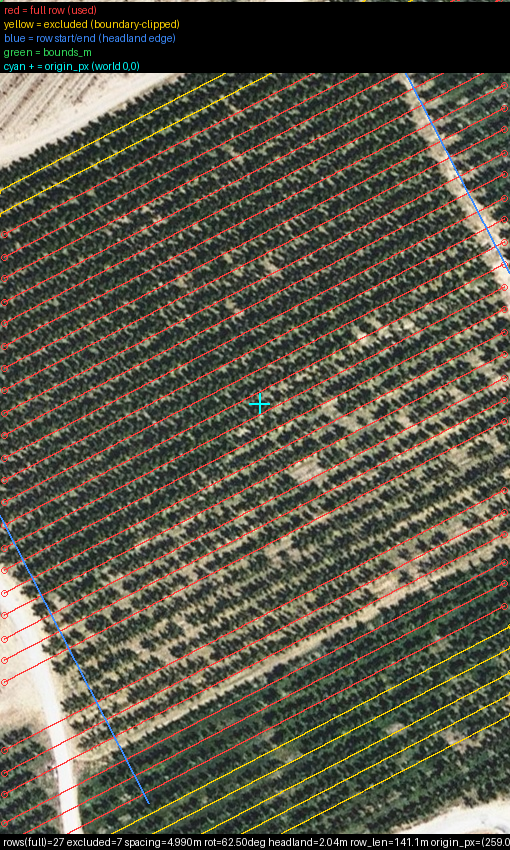
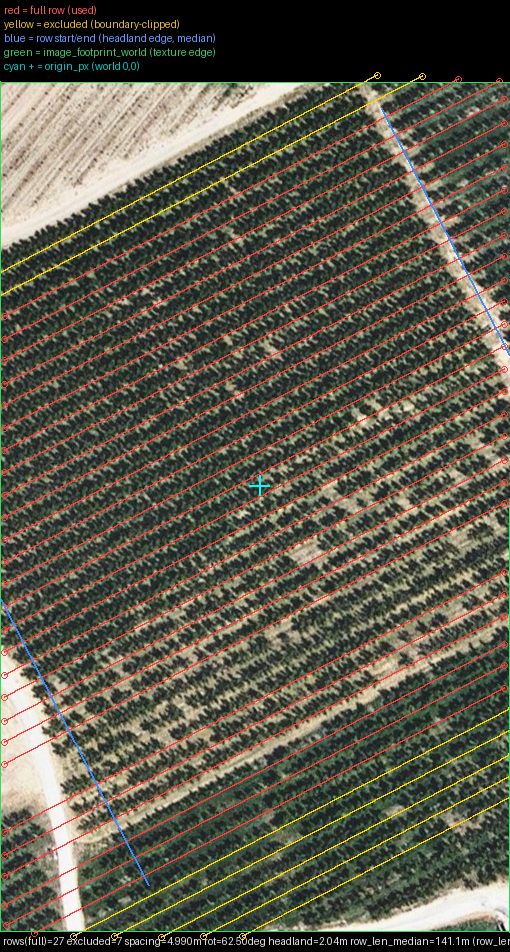
리뷰 수정 1 — footprint 필드·열별 길이·해시 실패·오버레이 여백

diff --git a/scripts/51_extract_farm_geometry.py b/scripts/51_extract_farm_geometry.py
@@ -415,14 +415,21 @@ def build_farm_manifest(geo, image_name, px_per_m, image_sha256, headland_m,
     row_lengths_m = [(r["t_end"] - r["t_start"]) / px_per_m for r in full_rows]
     row_length_m = float(np.median(row_lengths_m))
 
-    # bounds_m = 이미지 전체(0,0)~(image_w,image_h) 픽셀 사각형을 이 아핀으로
-    # 월드좌표에 투영한 바운딩 박스 — 컨트롤러 지시: 열 캐노피+headland_m 만의
-    # 타이트한 박스가 아니라, 이미지에 담긴 나지 여백·농로까지 포함해 T3/T4 가
-    # 미션 스탠드포인트·선회 패드를 놓을 여지를 준다(§bounds_note).
+    # image_footprint_world = 이미지 4모서리(0,0)/(w,0)/(w,h)/(0,h) 를 이
+    # 아핀으로 월드좌표에 투영한 값, 시계방향(픽셀 공간 순서 그대로 —
+    # R(rotation_deg) 는 순수 회전이라 방향성이 보존됨) — "텍스처가 실존하는
+    # 영역"의 정의 그 자체(리뷰 C1). bounds_m(아래, world-axis-aligned AABB)
+    # 은 이 다각형을 감싸는 사각형일 뿐 텍스처 자체가 아니다 — 62.5° 회전
+    # 때문에 AABB 모서리 4개 중 상당수는 실제 이미지 밖(텍스처 없음)에
+    # 놓인다. 오버레이는 반드시 footprint(이 필드)를 그려야 이미지 테두리와
+    # 정확히 겹치는 진짜 시각 검증이 된다 — bounds_m 을 그리면 캔버스 밖으로
+    # 나가 아무것도 안 보인다(1차 구현 결함, §리포트 수정 라운드 1 C1).
     corners_px = [(0.0, 0.0), (float(image_w), 0.0),
                   (float(image_w), float(image_h)), (0.0, float(image_h))]
     corners_world = [to_world(proj_s(cx, cy, theta_rad), proj_t(cx, cy, theta_rad))
                       for cx, cy in corners_px]
+    image_footprint_world = [[round(x, 4), round(y, 4)] for x, y in corners_world]
+
     xs_full = [c[0] for c in corners_world]
     ys_full = [c[1] for c in corners_world]
     min_x, max_x = min(xs_full), max(xs_full)
@@ -436,10 +443,12 @@ def build_farm_manifest(geo, image_name, px_per_m, image_sha256, headland_m,
         "rows": len(full_rows),
         "row_spacing_m": round(geo["spacing_m"], 4),
         "row_length_m": round(row_length_m, 3),
+        "row_lengths_m": [round(v, 3) for v in row_lengths_m],
         "tree_spacing_m": tree_spacing_m,
         "row_origins": [[round(x, 4), round(y, 4)] for x, y in row_origins],
         "headland_m": headland_m,
         "bounds_m": [[round(min_x, 3), round(min_y, 3)], [round(max_x, 3), round(max_y, 3)]],
+        "image_footprint_world": image_footprint_world,
         "terrain": "flat",
         "image_sha256": image_sha256,
         "axes_note": (
@@ -454,22 +463,33 @@ def build_farm_manifest(geo, image_name, px_per_m, image_sha256, headland_m,
             "t(along-row) 값이 더 작은 끝점(이미지 위쪽에 가까운 끝, 즉 이 "
             "규약상 world y 가 더 작은 끝)이며, 열은 거기서 +y 로 "
             "row_length_m 만큼 뻗는다. T3/T6 는 이 부호를 그대로 따라야 "
-            "하며, 진짜 지리적 북이 필요하면 별도로 wy 를 뒤집어야 한다."
+            "하며, 진짜 지리적 북이 필요하면 별도로 wy 를 뒤집어야 한다. "
+            "나무 배치는 row_length_m(대표 중앙값) 대신 row_lengths_m "
+            "배열(열별 실측값, row_origins 와 같은 순서)을 우선 사용하라 — "
+            "열마다 실제 길이가 다르다(경계 형상이 사각형이 아니라 열마다 "
+            "이미지 프레임과 만나는 지점이 다름, 최대 12.9m 차이 실측)."
         ),
         "bounds_note": (
-            "bounds_m 은 (row_origins/headland_m 기반의 타이트한 열 경계가 "
-            "아니라) orchard_ortho.jpg 이미지 전체 픽셀 사각형 "
-            "(0,0)~(image_w,image_h) 을 이 아핀으로 월드좌표에 투영한 "
-            "바운딩 박스다 — 이미지에는 열 캐노피 바깥으로 나지 여백·농로·"
-            "인접 휴경지가 더 담겨 있다(geometry_overlay.png 참고). T3/T4 가 "
-            "미션 스탠드포인트·선회 패드를 그 여백에 배치할 수 있도록 "
-            "일부러 넉넉하게 잡았다. **headland_m 과 혼동하지 말 것**: "
-            "headland_m 은 그와 전혀 다른, 훨씬 좁은 개념이다 — '온전한 "
-            "열'에서 실측한 '실제 캐노피 가장자리'와 '그 열이 이미지 "
-            "프레임과 만나는 지점' 사이 거리일 뿐(row_selection_note "
-            "참고), bounds_m 가장자리까지의 여유를 뜻하지 않는다. 열 자체의 "
-            "타이트한 경계가 필요하면 row_origins ± row_length_m(+y 방향) "
-            "± row_spacing_m/2(x 방향)로 별도 계산하라."
+            "bounds_m 은 world 좌표축에 정렬된 AABB(axis-aligned bounding "
+            "box)로, image_footprint_world(위 필드 — 이미지 4모서리를 실제로 "
+            "투영한 다각형, 텍스처가 존재하는 영역 그 자체) 를 완전히 "
+            "포함하지만 **AABB ⊃ image_footprint_world 이지 둘이 같지"
+            "않다** — rotation_deg=62.5° 때문에 회전된 사각형(footprint)의 "
+            "축정렬 바운딩박스는 그 사각형보다 크고, AABB 의 네 모서리 중 "
+            "상당수는 실제 텍스처 밖(이미지가 없는 영역)에 놓인다. bounds_m "
+            "자체는 orchard_ortho.jpg 이미지 전체 픽셀 사각형(0,0)~"
+            "(image_w,image_h) 의 월드 AABB 이므로, 이미지에 담긴 나지 "
+            "여백·농로까지 포함하는 '텍스처 범위의 상한'으로 쓰라 — T3/T4 가 "
+            "미션 스탠드포인트·선회 패드를 놓을 여지를 이 안에서 찾되, "
+            "AABB 모서리 근방(텍스처 밖일 수 있음)은 image_footprint_world "
+            "다각형 안쪽인지 반드시 별도로 확인해야 한다. **headland_m 과도 "
+            "혼동하지 말 것**: headland_m 은 이들과 전혀 다른, 훨씬 좁은 "
+            "개념이다 — '온전한 열'에서 실측한 '실제 캐노피 가장자리'와 "
+            "'그 열이 이미지 프레임과 만나는 지점' 사이 거리일 뿐"
+            "(row_selection_note 참고), bounds_m/footprint 가장자리까지의 "
+            "여유를 뜻하지 않는다. 열 자체의 타이트한 경계가 필요하면 "
+            "row_origins ± row_lengths_m(+y 방향, 열별 값) ± "
+            "row_spacing_m/2(x 방향)로 별도 계산하라."
         ),
         "row_selection_note": (
             "rows/row_origins 는 '온전한 열'만 포함한다 — 기준(순수 기하, "
@@ -493,10 +513,44 @@ def build_farm_manifest(geo, image_name, px_per_m, image_sha256, headland_m,
 
 
 def render_overlay(arr_rgb, geo, manifest, out_path):
+    """오버레이 — 이미지 자체는 원본 그대로 두고, 범례/캡션은 이미지 밖에
+    새로 붙인 여백에 그린다(리뷰 I4 — 검은 띠로 이미지를 덮으면 열 0~4
+    시작점 같은 실제 콘텐츠가 가려짐). 경계 표시는 bounds_m(AABB, 캔버스
+    밖으로 크게 나감)이 아니라 image_footprint_world(이미지 4모서리 자체)를
+    그린다 — 정의상 이미지 테두리와 정확히 겹쳐야 진짜 시각 검증이 된다
+    (리뷰 C1)."""
     h, w = arr_rgb.shape[:2]
     theta_rad = math.radians(geo["theta_deg"])
-    im = Image.fromarray(arr_rgb.astype(np.uint8), mode="RGB").convert("RGB")
-    draw = ImageDraw.Draw(im)
+    orig = Image.fromarray(arr_rgb.astype(np.uint8), mode="RGB").convert("RGB")
+
+    n_full = len(geo["full_rows"])
+    n_excl = len(geo["row_records"]) - n_full
+    legend = [
+        ("red = full row (used)", (255, 90, 90)),
+        ("yellow = excluded (boundary-clipped)", (230, 190, 40)),
+        ("blue = row start/end (headland edge, median)", (100, 160, 255)),
+        ("green = image_footprint_world (texture edge)", (60, 200, 110)),
+        ("cyan + = origin_px (world 0,0)", (0, 200, 200)),
+    ]
+    line_h = 14
+    top_margin = 6 + line_h * len(legend) + 6
+    caption = (f"rows(full)={n_full} excluded={n_excl} "
+               f"spacing={geo['spacing_m']:.3f}m rot={geo['theta_deg']:.2f}deg "
+               f"headland={manifest['headland_m']:.2f}m "
+               f"row_len_median={manifest['row_length_m']:.1f}m "
+               f"(row_lengths_m: {min(manifest['row_lengths_m']):.1f}"
+               f"~{max(manifest['row_lengths_m']):.1f}m) "
+               f"origin_px=({manifest['origin_px'][0]:.1f},{manifest['origin_px'][1]:.1f})")
+    bottom_margin = 20
+
+    # 이미지 밖에 여백을 더한 새 캔버스 — 이미지 콘텐츠는 절대 안 가림
+    canvas = Image.new("RGB", (w, h + top_margin + bottom_margin), (0, 0, 0))
+    canvas.paste(orig, (0, top_margin))
+    draw = ImageDraw.Draw(canvas)
+
+    def cpx(x, y):
+        """이미지 픽셀좌표 → 캔버스좌표(top_margin 만큼 아래로 이동)."""
+        return x, y + top_margin
 
     full_s = {round(r["s"], 3) for r in geo["full_rows"]}
     for r in geo["row_records"]:
@@ -509,29 +563,27 @@ def render_overlay(arr_rgb, geo, manifest, out_path):
             # 전체(순수 기하)를 옅은 색으로 참고 표시만 한다.
             color = (255, 210, 0)
             t0, t1 = r["avail_t_lo"], r["avail_t_hi"]
-        x0, y0 = st_to_px(r["s"], t0, theta_rad)
-        x1, y1 = st_to_px(r["s"], t1, theta_rad)
+        x0, y0 = cpx(*st_to_px(r["s"], t0, theta_rad))
+        x1, y1 = cpx(*st_to_px(r["s"], t1, theta_rad))
         draw.line([(x0, y0), (x1, y1)], fill=color, width=2)
-        # 끝점 표시
         for (px_, py_) in ((x0, y0), (x1, y1)):
             draw.ellipse([px_ - 3, py_ - 3, px_ + 3, py_ + 3], outline=color, width=1)
 
-    # headland 경계(열 시작/끝 공통 대역) — 파란 점선 느낌으로 짧은 세그먼트 반복
+    # headland 경계(열 시작/끝 공통 대역, 중앙값 기준 — 참고용) — 파란 선
     if geo["full_rows"]:
         t_starts = [r["t_start"] for r in geo["full_rows"]]
         t_ends = [r["t_end"] for r in geo["full_rows"]]
         s_vals = [r["s"] for r in geo["full_rows"]]
         s_lo, s_hi = min(s_vals) - geo["spacing_m"] * manifest["px_per_m"] / 2, \
             max(s_vals) + geo["spacing_m"] * manifest["px_per_m"] / 2
-        for t_val, label in ((float(np.median(t_starts)), "row start"),
-                              (float(np.median(t_ends)), "row end")):
-            x0, y0 = st_to_px(s_lo, t_val, theta_rad)
-            x1, y1 = st_to_px(s_hi, t_val, theta_rad)
+        for t_val in (float(np.median(t_starts)), float(np.median(t_ends))):
+            x0, y0 = cpx(*st_to_px(s_lo, t_val, theta_rad))
+            x1, y1 = cpx(*st_to_px(s_hi, t_val, theta_rad))
             draw.line([(x0, y0), (x1, y1)], fill=(60, 140, 255), width=2)
 
-    # bounds_m 블록 경계(월드 아핀으로 픽셀에 되돌려 그림) — 초록 사각형
-    (bx0, by0), (bx1, by1) = manifest["bounds_m"]
-    corners_world = [(bx0, by0), (bx1, by0), (bx1, by1), (bx0, by1)]
+    # image_footprint_world 다각형 — world 아핀으로 픽셀에 되돌리면 정의상
+    # 이미지 4모서리(0,0)/(w,0)/(w,h)/(0,h) 와 정확히 같아야 한다(C1 진짜
+    # 시각 검증). bounds_m(AABB) 은 캔버스 밖으로 나가므로 그리지 않는다.
     px_per_m = manifest["px_per_m"]
     ox, oy = manifest["origin_px"]
 
@@ -541,36 +593,24 @@ def render_overlay(arr_rgb, geo, manifest, out_path):
         dy = px_per_m * (wx * sn + wy * c)
         return ox + dx, oy + dy
 
-    corners_px = [world_to_px(wx, wy) for wx, wy in corners_world]
-    draw.line(corners_px + [corners_px[0]], fill=(50, 220, 90), width=2)
+    footprint_px = [cpx(*world_to_px(wx, wy)) for wx, wy in manifest["image_footprint_world"]]
+    draw.line(footprint_px + [footprint_px[0]], fill=(50, 220, 90), width=2)
 
     # origin 십자
-    draw.line([(ox - 10, oy), (ox + 10, oy)], fill=(0, 255, 255), width=2)
-    draw.line([(ox, oy - 10), (ox, oy + 10)], fill=(0, 255, 255), width=2)
+    cox, coy = cpx(ox, oy)
+    draw.line([(cox - 10, coy), (cox + 10, coy)], fill=(0, 255, 255), width=2)
+    draw.line([(cox, coy - 10), (cox, coy + 10)], fill=(0, 255, 255), width=2)
 
-    n_full = len(geo["full_rows"])
-    n_excl = len(geo["row_records"]) - n_full
-    legend = [
-        ("red = full row (used)", (255, 60, 60)),
-        ("yellow = excluded (boundary-clipped)", (255, 210, 0)),
-        ("blue = row start/end (headland edge)", (60, 140, 255)),
-        ("green = bounds_m", (50, 220, 90)),
-        ("cyan + = origin_px (world 0,0)", (0, 255, 255)),
-    ]
+    # 범례 — 이미지 위가 아니라 위쪽 여백에 그린다(리뷰 I4)
     ly = 4
     for text, color in legend:
-        draw.rectangle([0, ly - 2, w, ly + 12], fill=(0, 0, 0))
         draw.text((4, ly), text, fill=color)
-        ly += 14
+        ly += line_h
 
-    caption = (f"rows(full)={n_full} excluded={n_excl} "
-               f"spacing={geo['spacing_m']:.3f}m rot={geo['theta_deg']:.2f}deg "
-               f"headland={manifest['headland_m']:.2f}m row_len={manifest['row_length_m']:.1f}m "
-               f"origin_px=({ox:.1f},{oy:.1f})")
-    draw.rectangle([0, h - 16, w, h], fill=(0, 0, 0))
-    draw.text((3, h - 14), caption, fill=(255, 255, 255))
+    # 캡션 — 아래쪽 여백에 그린다
+    draw.text((3, h + top_margin + 3), caption, fill=(230, 230, 230))
 
-    im.save(out_path)
+    canvas.save(out_path)
 
 
 # ---------------------------------------------------------------------------
@@ -638,8 +678,54 @@ def run_self_test():
         print(f"[self-test] FAIL rotation_deg {measured:.3f} abs not in [6.5,7.5]")
         ok = False
 
+    # 아핀 왕복 단언 — 리뷰 라운드 1 C1(bounds_m AABB 를 이미지 모서리인 양
+    # 착각해 오버레이가 캔버스 밖으로 나간 결함)의 사각지대를 방어한다.
+    # build_farm_manifest 가 실제로 만드는 매니페스트로 왕복시켜, (1)
+    # row_origins 가 world→px→world 왕복에서 오차<0.1m 인지, (2)
+    # image_footprint_world 가 world→px 변환했을 때 진짜 이미지 4모서리
+    # (0,0)/(w,0)/(w,h)/(0,h) 와 정확히(오차<0.1m) 일치하는지 — (2)가 바로
+    # C1 류 결함(footprint 대신 AABB 를 넣는 실수)을 직접 잡아낸다: AABB
+    # 모서리로 넣었다면 이 오차가 수백 m 로 튄다(§실측: 최대 수백 px).
+    h_img, w_img = arr.shape[:2]
+    manifest = build_farm_manifest(geo, "self_test.png", px_per_m,
+                                    "0" * 64, geo["headland_m"], 1.5, w_img, h_img)
+    theta_rad2 = math.radians(manifest["rotation_deg"])
+    ox, oy = manifest["origin_px"]
+    c2, s2 = math.cos(theta_rad2), math.sin(theta_rad2)
+
+    def world_to_px_rt(wx, wy):
+        return ox + px_per_m * (wx * c2 - wy * s2), oy + px_per_m * (wx * s2 + wy * c2)
+
+    def pixel_to_world_rt(px_, py_):
+        dx, dy = (px_ - ox) / px_per_m, (py_ - oy) / px_per_m
+        return dx * c2 + dy * s2, -dx * s2 + dy * c2
+
+    max_err_origins = 0.0
+    for wx, wy in manifest["row_origins"]:
+        px_, py_ = world_to_px_rt(wx, wy)
+        wx2, wy2 = pixel_to_world_rt(px_, py_)
+        max_err_origins = max(max_err_origins, math.hypot(wx2 - wx, wy2 - wy))
+    print(f"[self-test] row_origins 왕복(world→px→world) 최대오차="
+          f"{max_err_origins:.5f}m (기대: <0.1m)")
+    if max_err_origins >= 0.1:
+        print(f"[self-test] FAIL row_origins 왕복오차 {max_err_origins:.4f}m >= 0.1m")
+        ok = False
+
+    expected_corners_px = [(0.0, 0.0), (float(w_img), 0.0),
+                            (float(w_img), float(h_img)), (0.0, float(h_img))]
+    max_err_fp = 0.0
+    for (fx, fy), (ex, ey) in zip(manifest["image_footprint_world"], expected_corners_px):
+        ewx, ewy = pixel_to_world_rt(ex, ey)
+        max_err_fp = max(max_err_fp, math.hypot(fx - ewx, fy - ewy))
+    print(f"[self-test] image_footprint_world 대 실제 이미지 모서리 최대오차="
+          f"{max_err_fp:.5f}m (기대: <0.1m — C1 회귀 방어)")
+    if max_err_fp >= 0.1:
+        print(f"[self-test] FAIL image_footprint_world 오차 {max_err_fp:.4f}m >= 0.1m "
+              "— footprint 가 AABB(bounds_m) 로 잘못 채워졌을 가능성")
+        ok = False
+
     if ok:
-        print("[self-test] GREEN — row_spacing_m, rotation_deg 복원 성공")
+        print("[self-test] GREEN — row_spacing_m, rotation_deg, 아핀 왕복 모두 통과")
         print(f"[self-test] 부호 관례: PIL.Image.rotate(+{true_angle}) 이미지에서 "
               f"검출된 theta_deg 부호={'+' if measured >= 0 else '-'} "
               "(실제 이미지 rotation_deg 도 이 관례를 그대로 따름)")
@@ -691,8 +777,13 @@ def main():
 
     image_sha256 = sha256_of_file(args.image)
     if meta.get("sha256") and meta["sha256"] != image_sha256:
-        print(f"[extract] 경고: meta sha256({meta['sha256']}) != 실제 파일 sha256"
-              f"({image_sha256})", file=sys.stderr)
+        # 스펙 §6: "이미지 해시 불일치 — 명시적 실패(무음 기본값 금지)".
+        # 경고만 찍고 계속 진행하면 T1 이후 바뀐(혹은 손상된) 이미지로 조용히
+        # farm.json 을 만들 위험이 있다 — 여기서 멈춘다(리뷰 I2).
+        print(f"[extract] 오류: meta sha256({meta['sha256']}) != 실제 파일 sha256"
+              f"({image_sha256}) — 이미지가 T1 이후 변경되었거나 손상됨, 중단",
+              file=sys.stderr)
+        sys.exit(2)
 
     px_per_m = round(1.0 / meta["gsd_m"], 6)
     im = Image.open(args.image).convert("RGB")
